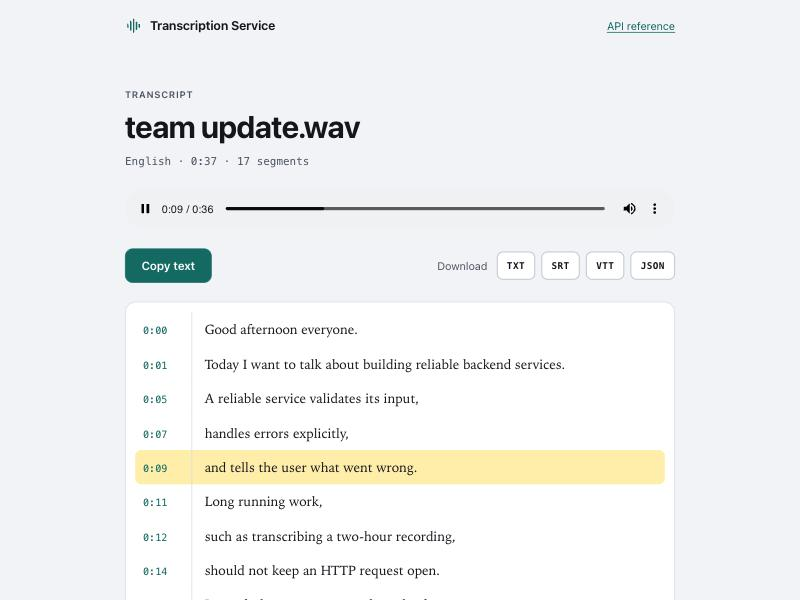
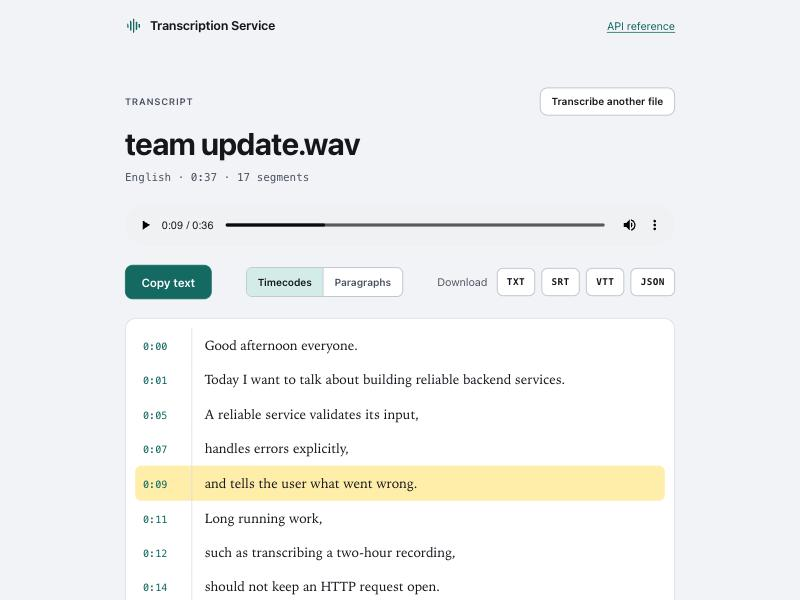
Page: paragraph layout, new-file button at the top, an empty form after it
- A switch shows the transcript with timecodes or as plain paragraphs; a
  paragraph ends after a long pause, or at the end of a sentence once it
  is long enough. Copy copies what is on screen
- 'Transcribe another file' sits at the top of the transcript, so a long
  transcript does not have to be scrolled, and it returns to an empty form
  so the previous file cannot be submitted again by mistake
- Author credit in the page footer, the API docs and the README

diff --git a/app/static/app.js b/app/static/app.js
@@ -12,6 +12,11 @@ const POLL_INTERVAL_MS = 1000;
 const SLOWEST_POLL_INTERVAL_MS = 5000;
 const RECENT_STORAGE_KEY = "transcription-service.recent";
 const RECENT_LIMIT = 8;
+const LAYOUT_STORAGE_KEY = "transcription-service.layout";
+// In the paragraph layout, a paragraph ends after a pause this long, or at the end of
+// a sentence once it has grown this long.
+const PARAGRAPH_PAUSE_SECONDS = 2;
+const PARAGRAPH_MIN_CHARACTERS = 500;
 
 // Languages Whisper supports that are written right to left.
 const RIGHT_TO_LEFT_LANGUAGES = new Set(["ar", "fa", "he", "ps", "sd", "ur", "yi"]);
@@ -29,7 +34,10 @@ const state = {
   firstProgress: null, // {time, progress}: the first progress we saw, for the estimate
   cues: [], // [{start, end, element}] of the transcript on screen
   activeCue: null,
-  transcriptText: "",
+  transcriptText: "", // one segment per line
+  paragraphs: [], // the same transcript as flowing text
+  layout: "timed", // "timed" (timecodes) or "paragraphs"
+  defaultFileHint: "Audio or video", // replaced by the server's limits once they load
 };
 
 // ---------- Formatting ----------
@@ -140,6 +148,19 @@ function chooseFile(file) {
     byId("dropzone-title").textContent = file.name;
     byId("file-hint").textContent = `${formatBytes(file.size)}. Click to choose a different file.`;
   }
+}
+
+/** Back to an empty form, so the previous file cannot be submitted again by mistake. */
+function clearChosenFile() {
+  state.file = null;
+  byId("file-input").value = "";
+  byId("dropzone").classList.remove("has-file");
+  byId("start-button").disabled = true;
+  const choose = document.createElement("span");
+  choose.className = "dropzone__choose";
+  choose.textContent = "choose a file";
+  byId("dropzone-title").replaceChildren("Drop a file here, or ", choose);
+  byId("file-hint").textContent = state.defaultFileHint;
 }
 
 function setUploadError(message) {
@@ -408,10 +429,13 @@ function renderResult(job) {
 
   const playable = preparePlayer(job);
   renderTranscript(job.segments, playable);
+  renderParagraphs(job.segments);
   state.transcriptText = job.text;
-  byId("transcript").lang = job.language ?? "";
-  byId("transcript").dir = RIGHT_TO_LEFT_LANGUAGES.has(job.language) ? "rtl" : "ltr";
-  byId("transcript").hidden = job.segments.length === 0;
+  for (const container of [byId("transcript"), byId("transcript-paragraphs")]) {
+    container.lang = job.language ?? "";
+    container.dir = RIGHT_TO_LEFT_LANGUAGES.has(job.language) ? "rtl" : "ltr";
+  }
+  showLayout(state.layout);
   byId("no-speech").hidden = job.segments.length > 0;
   byId("copy-button").disabled = job.segments.length === 0;
   byId("copy-button").textContent = "Copy text";
@@ -448,6 +472,52 @@ function renderTranscript(segments, playable) {
     state.cues.push({ start: segment.start, end: segment.end, element: item });
   }
   list.replaceChildren(lines);
+}
+
+/** Join the segments into paragraphs of flowing text. */
+function toParagraphs(segments) {
+  const paragraphs = [];
+  let sentences = [];
+  let length = 0;
+  segments.forEach((segment, index) => {
+    sentences.push(segment.text);
+    length += segment.text.length;
+    const next = segments[index + 1];
+    const pauseFollows = next && next.start - segment.end >= PARAGRAPH_PAUSE_SECONDS;
+    const endsSentence = /[.!?]["')\]]?$/.test(segment.text);
+    if (!next || pauseFollows || (endsSentence && length >= PARAGRAPH_MIN_CHARACTERS)) {
+      paragraphs.push(sentences.join(" "));
+      sentences = [];
+      length = 0;
+    }
+  });
+  return paragraphs;
+}
+
+function renderParagraphs(segments) {
+  state.paragraphs = toParagraphs(segments);
+  const elements = state.paragraphs.map((text) => {
+    const paragraph = document.createElement("p");
+    paragraph.textContent = text;
+    return paragraph;
+  });
+  byId("transcript-paragraphs").replaceChildren(...elements);
+}
+
+/** Show the transcript with timecodes ("timed") or as paragraphs, and remember the choice. */
+function showLayout(layout) {
+  state.layout = layout === "paragraphs" ? "paragraphs" : "timed";
+  const empty = state.cues.length === 0;
+  byId("transcript").hidden = empty || state.layout !== "timed";
+  byId("transcript-paragraphs").hidden = empty || state.layout !== "paragraphs";
+  for (const option of document.querySelectorAll(".layout-switch__option")) {
+    option.setAttribute("aria-pressed", String(option.dataset.layout === state.layout));
+  }
+  try {
+    window.localStorage.setItem(LAYOUT_STORAGE_KEY, state.layout);
+  } catch {
+    // Storage can be unavailable (private browsing); the choice then lasts for this visit.
+  }
 }
 
 /**
@@ -489,13 +559,16 @@ function highlightSpokenCue() {
 
 async function copyTranscript() {
   const button = byId("copy-button");
+  const inParagraphs = state.layout === "paragraphs";
   try {
-    await navigator.clipboard.writeText(state.transcriptText);
+    // Copy what is on screen: paragraphs, or one segment per line.
+    const text = inParagraphs ? state.paragraphs.join("\n\n") : state.transcriptText;
+    await navigator.clipboard.writeText(text);
     button.textContent = "Copied";
   } catch {
     // No clipboard access (an insecure origin, for example): select the text instead.
     const range = document.createRange();
-    range.selectNodeContents(byId("transcript"));
+    range.selectNodeContents(byId(inParagraphs ? "transcript-paragraphs" : "transcript"));
     const selection = window.getSelection();
     selection.removeAllRanges();
     selection.addRange(range);
@@ -571,8 +644,9 @@ async function loadConfig() {
   const common = ["MP3", "WAV", "M4A", "MP4", "MOV", "MKV", "WebM"].filter((name) =>
     extensions.includes(`.${name.toLowerCase()}`),
   );
-  byId("file-hint").textContent =
+  state.defaultFileHint =
     `${common.join(", ")} and more, up to ${formatBytes(maxBytes)} and ${maxMinutes} minutes`;
+  if (state.file === null) byId("file-hint").textContent = state.defaultFileHint;
   byId("model-name").textContent = `Whisper (${model})`;
 
   const options = languages
@@ -594,8 +668,10 @@ function route({ moveFocus = true } = {}) {
 }
 
 function leaveJob() {
-  // Drop "#job=..." from the address without adding a history entry, then show the form.
+  // Drop "#job=..." from the address without adding a history entry, then show an
+  // empty form.
   window.history.replaceState(null, "", window.location.pathname);
+  clearChosenFile();
   route();
 }
 
@@ -610,6 +686,9 @@ function init() {
   byId("another-button").addEventListener("click", leaveJob);
   byId("retry-button").addEventListener("click", leaveJob);
   byId("player").addEventListener("timeupdate", highlightSpokenCue);
+  for (const option of document.querySelectorAll(".layout-switch__option")) {
+    option.addEventListener("click", () => showLayout(option.dataset.layout));
+  }
   byId("transcript").addEventListener("click", (event) => {
     const timeButton = event.target.closest("button.cue__time");
     if (timeButton) playFrom(Number(timeButton.dataset.start));
@@ -628,6 +707,11 @@ function init() {
     if (state.upload) event.preventDefault(); // closing the tab would cancel the upload
   });
 
+  try {
+    state.layout = window.localStorage.getItem(LAYOUT_STORAGE_KEY) ?? state.layout;
+  } catch {
+    // Storage is unavailable: keep the default layout.
+  }
   loadConfig();
   route({ moveFocus: false });
 }

diff --git a/app/static/index.html b/app/static/index.html
@@ -94,7 +94,10 @@
 
     <!-- 3. The transcript -->
     <section id="view-result" class="view" aria-labelledby="result-title" hidden>
-      <p class="eyebrow">Transcript</p>
+      <div class="view__header">
+        <p class="eyebrow">Transcript</p>
+        <button class="button button--small" id="another-button" type="button">Transcribe another file</button>
+      </div>
       <h1 id="result-title" tabindex="-1" dir="auto"></h1>
       <p class="result-facts" id="result-facts"></p>
 
@@ -102,6 +105,10 @@
 
       <div class="toolbar">
         <button class="button button--primary" id="copy-button" type="button">Copy text</button>
+        <div class="layout-switch" role="group" aria-label="How to show the transcript">
+          <button class="layout-switch__option" type="button" data-layout="timed" aria-pressed="true">Timecodes</button>
+          <button class="layout-switch__option" type="button" data-layout="paragraphs" aria-pressed="false">Paragraphs</button>
+        </div>
         <div class="downloads" role="group" aria-label="Download the transcript">
           <span class="downloads__label">Download</span>
           <a class="downloads__link" data-format="txt" download>TXT</a>
@@ -112,9 +119,8 @@
       </div>
 
       <ol class="transcript" id="transcript"></ol>
+      <div class="transcript transcript--paragraphs" id="transcript-paragraphs" hidden></div>
       <p class="message" id="no-speech" hidden>No speech was found in this recording.</p>
-
-      <button class="button" id="another-button" type="button">Transcribe another file</button>
     </section>
 
     <!-- A job that failed, or a transcript that no longer exists -->
@@ -128,6 +134,7 @@
 
   <footer class="colophon">
     <p>Speech recognition by <span id="model-name">Whisper</span>, running on this server. Uploaded files are deleted as soon as their transcript is ready.</p>
+    <p>Built by Gilad Shavit. <a href="https://github.com/giladshavit/transcription-service">Source code on GitHub</a></p>
   </footer>
 </body>
 </html>

diff --git a/app/static/styles.css b/app/static/styles.css
@@ -163,6 +163,9 @@ main {
 }
 
 .colophon {
+  display: flex;
+  flex-direction: column;
+  gap: 4px;
   padding-block: 20px 28px;
   border-top: 1px solid var(--rule);
   color: var(--ink-soft);
@@ -209,6 +212,18 @@ h1 {
 
 .eyebrow + h1 {
   margin-top: -16px;
+}
+
+/* A view's label on the left, its secondary action on the right. */
+.view__header {
+  display: flex;
+  align-items: center;
+  justify-content: space-between;
+  gap: 16px;
+}
+
+.view__header + h1 {
+  margin-top: -12px;
 }
 
 /* ---------- Upload form ---------- */
@@ -347,6 +362,12 @@ h1 {
   font-weight: 500;
   text-decoration: underline;
   text-underline-offset: 3px;
+}
+
+.button--small {
+  min-height: 36px;
+  padding: 0 14px;
+  font-size: 0.8125rem;
 }
 
 .button:disabled {
@@ -515,6 +536,34 @@ h1 {
   flex-wrap: wrap;
 }
 
+/* Two ways to read the transcript: with timecodes, or as plain paragraphs. */
+.layout-switch {
+  display: inline-flex;
+  overflow: hidden;
+  border: 1px solid var(--rule-strong);
+  border-radius: 8px;
+  background: var(--surface);
+}
+
+.layout-switch__option {
+  min-height: 36px;
+  padding: 0 14px;
+  border: 0;
+  background: none;
+  color: var(--ink-soft);
+  font: 600 0.8125rem/1 var(--font-ui);
+  cursor: pointer;
+}
+
+.layout-switch__option + .layout-switch__option {
+  border-left: 1px solid var(--rule-strong);
+}
+
+.layout-switch__option[aria-pressed="true"] {
+  background: var(--accent-soft);
+  color: var(--ink);
+}
+
 .downloads {
   display: flex;
   align-items: center;
@@ -554,6 +603,13 @@ h1 {
   border: 1px solid var(--rule);
   border-radius: var(--radius-large);
   background: var(--surface);
+}
+
+.transcript--paragraphs {
+  gap: 1em;
+  padding: 20px 24px;
+  font: 1.0625rem/1.75 var(--font-document);
+  overflow-wrap: anywhere;
 }
 
 .cue {

diff --git a/app/main.py b/app/main.py
@@ -64,6 +64,10 @@ def create_app(settings: Settings | None = None, transcriber: Transcriber | None
         title="Transcription Service",
         description="Upload an audio or video file and get a transcription.",
         version=__version__,
+        contact={
+            "name": "Gilad Shavit",
+            "url": "https://github.com/giladshavit/transcription-service",
+        },
         lifespan=lifespan,
     )
     app.state.settings = settings

diff --git a/README.md b/README.md
@@ -2,6 +2,8 @@
 
 [![CI](https://github.com/giladshavit/transcription-service/actions/workflows/ci.yml/badge.svg)](https://github.com/giladshavit/transcription-service/actions/workflows/ci.yml)
 
+Built by Gilad Shavit.
+
 Upload an audio or video file in the browser and get a transcript with timestamps. Copy
 it, or download it as plain text, SRT or WebVTT subtitles, or JSON.
 
@@ -300,6 +302,8 @@ third-party requests (system fonts only).
   wrong type is refused before it is uploaded, without duplicating the limits.
 - Progress is shown as a timeline of the recording itself, with the position reached and
   an estimate of the time left.
+- The transcript can be read with timecodes or as plain paragraphs, and the copy button
+  copies whichever is on screen.
 - While the page that uploaded the file is still open, the browser plays the local file:
   a timecode in the transcript plays from that moment and the spoken line is
   highlighted. The server does not keep the media file for this.
